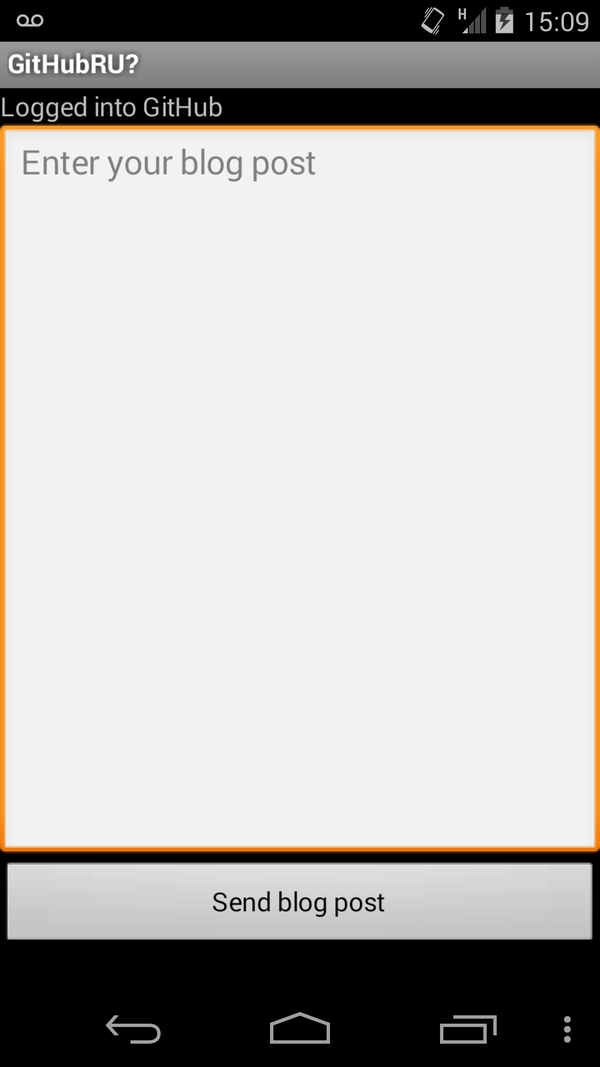
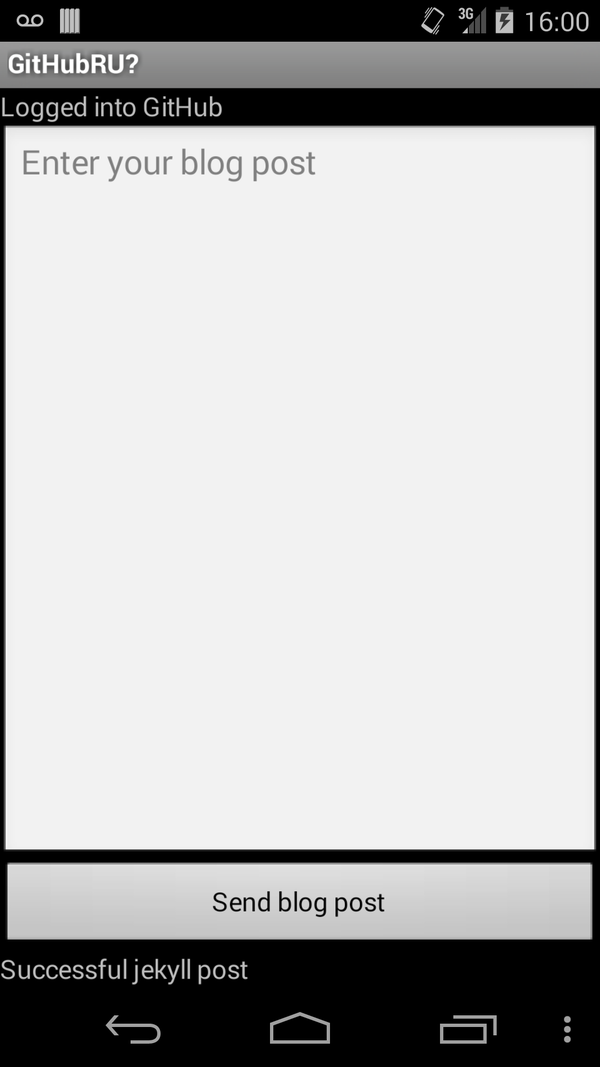
Fix status IDs

diff --git a/support/android/ghru/src/com/githubru/MainActivity.java b/support/android/ghru/src/com/githubru/MainActivity.java
@@ -7,6 +7,10 @@ import android.widget.LinearLayout;
 import android.widget.EditText;
 import android.widget.TextView;
 import android.view.View;
+import android.os.AsyncTask;
+import org.eclipse.egit.github.core.service.UserService;
+import org.eclipse.egit.github.core.User;
+import java.io.IOException;
 
 public class MainActivity extends Activity
 {
@@ -17,29 +21,55 @@ public class MainActivity extends Activity
         super.onCreate(savedInstanceState);
         setContentView(R.layout.main); 
 
-        Button login = (Button)findViewById( R.id.login ); // <1>
+        Button login = (Button)findViewById( R.id.login ); 
         login.setOnClickListener(new View.OnClickListener() {
                 public void onClick(View v) {
-                    login(); // <2>
+                    EditText utv = (EditText)findViewById( R.id.username );
+                    EditText ptv = (EditText)findViewById( R.id.password );
+                    String username = (String)utv.getText().toString();
+                    String password = (String)ptv.getText().toString();
+                    new LoginTask().execute( username, password );
                 }
             });
     }
 
     private void login() {
 
-        setContentView(R.layout.logged_in); // <3>
+        setContentView(R.layout.logged_in); 
 
         Button submit = (Button)findViewById( R.id.submit );
         submit.setOnClickListener(new View.OnClickListener() {
                 public void onClick(View v) {
-                    doPost(); // <4>
+                    doPost(); 
                 }
             });
     }
 
     private void doPost() {
-        TextView tv = (TextView)findViewById( R.id.status ); // <5>
+        TextView tv = (TextView)findViewById( R.id.status ); 
         tv.setText( "Successful jekyll post" );
+    }
+    
+    class LoginTask extends AsyncTask<String, Void, Boolean> {
+        @Override
+            protected Boolean doInBackground(String... credentials) {
+            boolean rv = false;
+            UserService us = new UserService();
+            us.getClient().setCredentials( credentials[0], credentials[1] );
+            try {
+                User user = us.getUser( credentials[0] );
+                rv = null != user;
+            }
+            catch( IOException ioe ) {}
+            return rv;
+        }
+        
+        @Override
+            protected void onPostExecute(Boolean result) {
+            if( result ) {
+                login();
+            }
+        }
     }
 
 }
